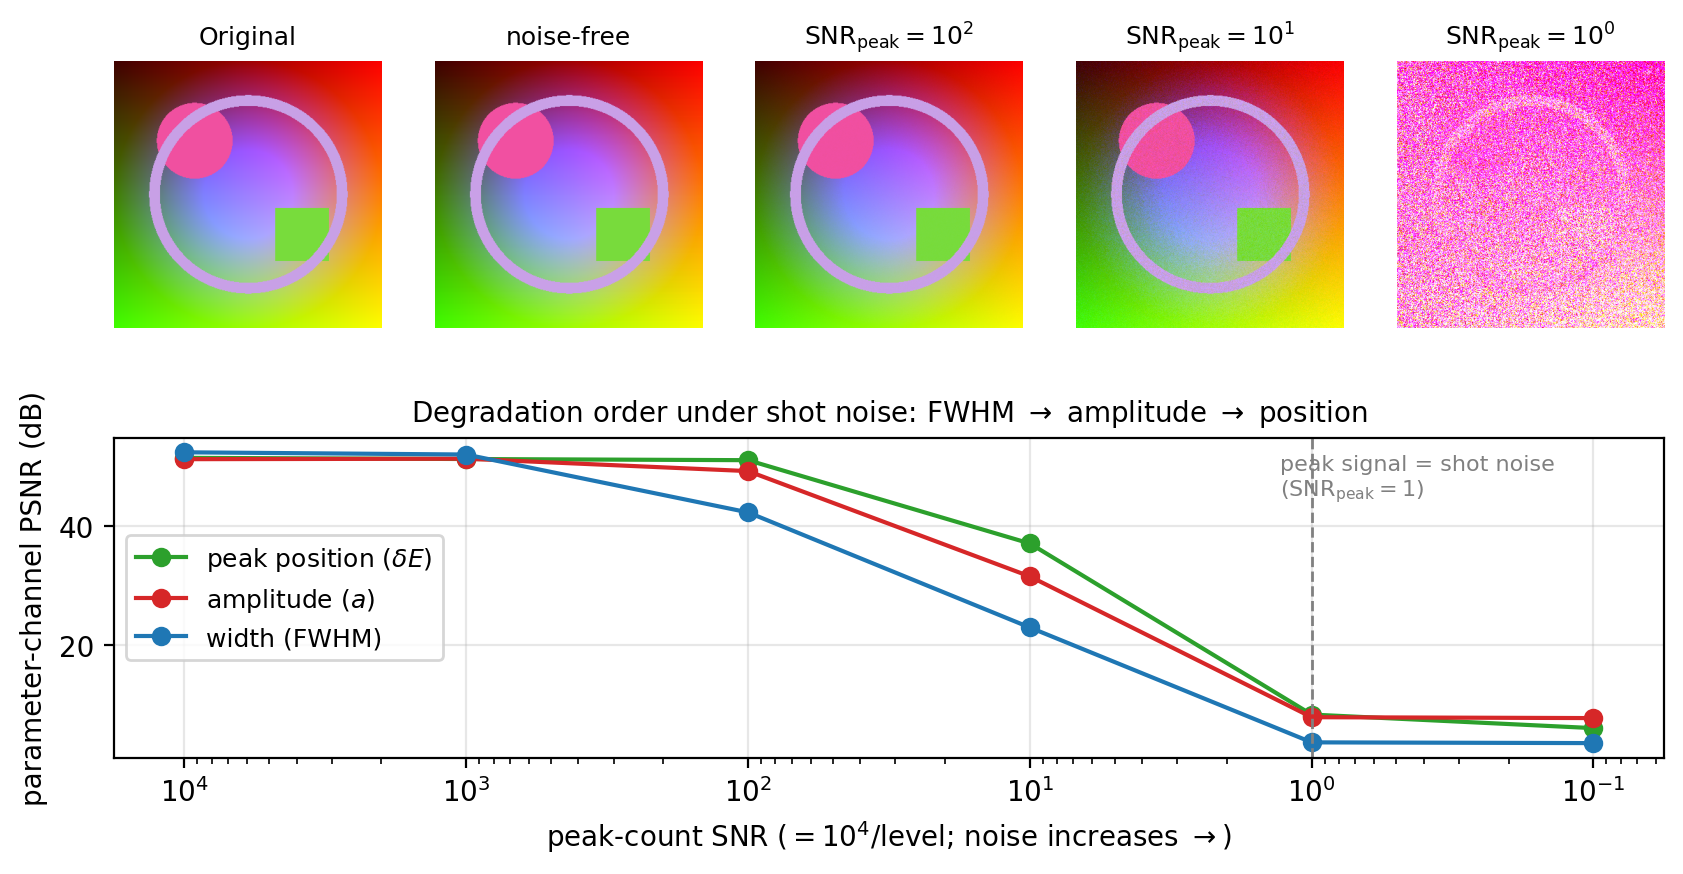
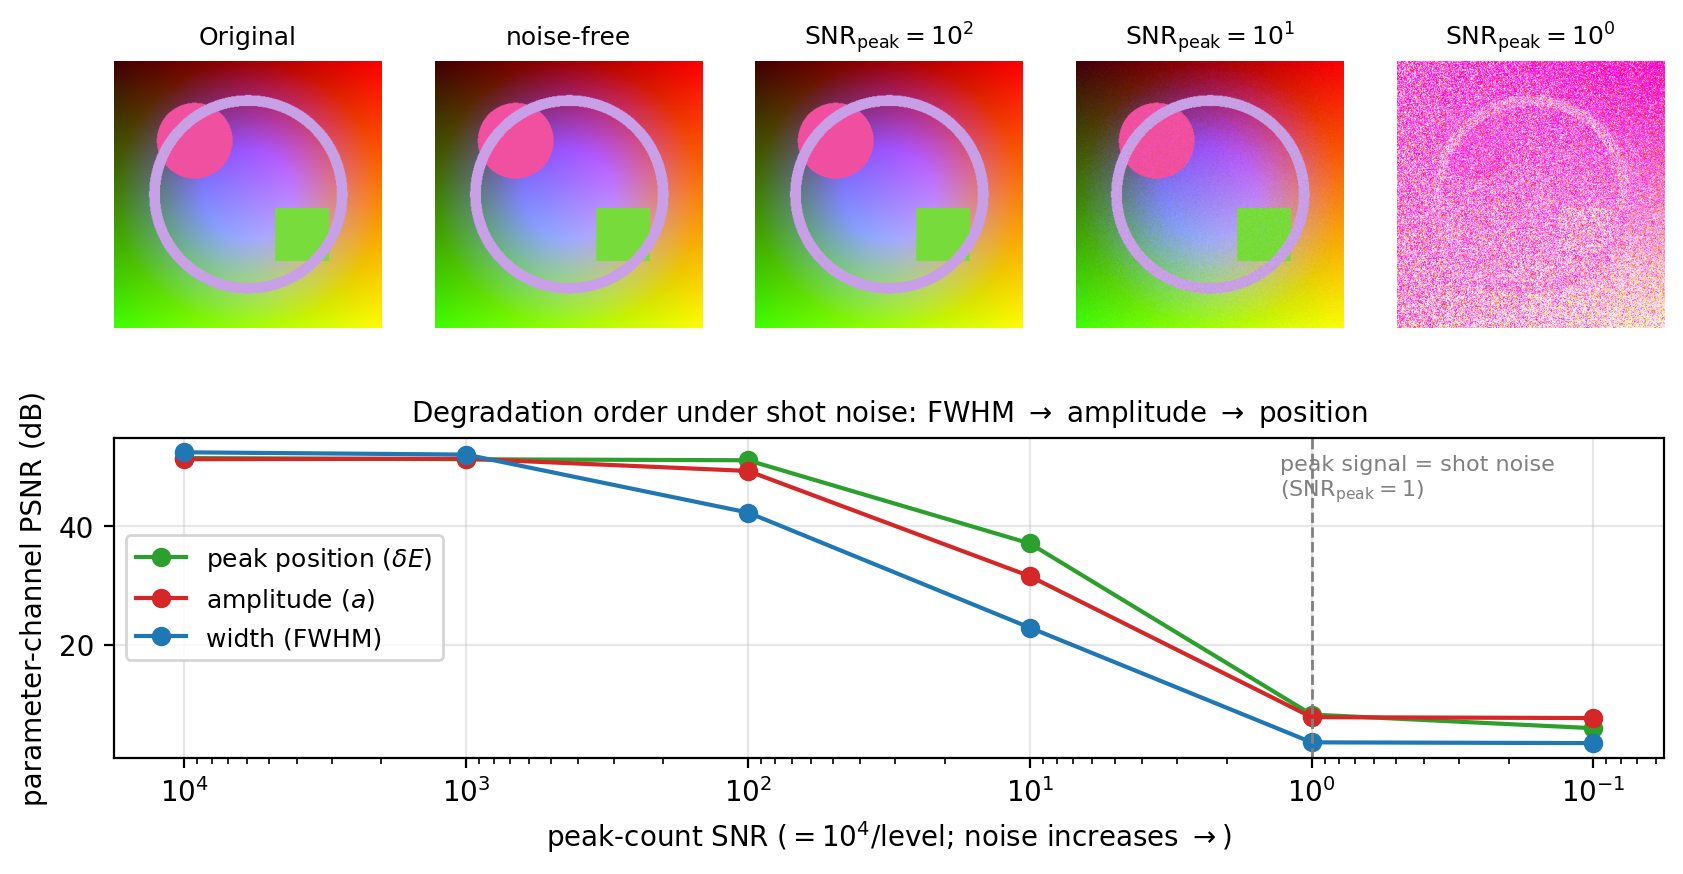
Record measurements on 743c379 (clean tree) and sync published numbers
Measurements re-run on a quiet machine (no GPU tenant, file sync
idle) on top of commit 743c379 with no tracked modifications, so the
recorded git_commit actually contains the measuring code:

- figure1_throughput.json: amplitude-only projection kernel
  478 M spec/s median (range 453-490, 9 repetitions, warm-up 2);
  git_tracked_dirty=false, command line recorded.
- solver_comparison.json: seeded input (SHA-256 recorded),
  identical bounds, common accuracy subset. dict2d_parabola
  6.5 M spec/s (MLX GPU) vs scipy_curve_fit 798 / lmfit 783 spec/s
  (bounded TRF, single-thread CPU) — factor ~8,000 at matching
  accuracy (MAE amp 0.022 vs 0.022, dE 0.013 vs 0.013 eV);
  git_tracked_dirty=false.
- figure2_gvrt_noise.png regenerated with mx.random seeded.

Paper, README, and RELATED_SOFTWARE updated to the exact recorded
figures (478M / 74% of bandwidth bound / 6.5M vs ~800). Paper body
1,395 words; citation keys 12/12 match.

Note: this commit adds only measurement artifacts and the matching
prose — the measuring code is unchanged from 743c379, preserving the
provenance chain.

diff --git a/paper/paper.md b/paper/paper.md
@@ -34,8 +34,8 @@ parabolic interpolation, and a multipeak alternating-projection
 routine — that trade precision for throughput along a single API.
 The fastest path, an **amplitude-only projection kernel** that
 reduces to a single `Y @ W` matmul against a precomputed weight
-matrix, sustains a measured median of **468 million spectrum-vector
-evaluations per second** (range 416–477 over nine repetitions) on an
+matrix, sustains a measured median of **478 million spectrum-vector
+evaluations per second** (range 453–490 over nine repetitions) on an
 Apple M3 Max with the MLX backend; the committed measurement record
 under `paper/figures/results/` pins the environment, problem size,
 and every individual timing. The Giga Voigt Round Trip (GVRT)
@@ -62,7 +62,7 @@ open-source route — `lmfit` [@lmfit] or `scipy.optimize.curve_fit`
 a Python-loop "one spectrum at a time" workload. On the benchmark
 problem shipped with this package (single Voigt peak, 151 channels,
 free amplitude, position, and width at peak-count SNR 10, bounded
-trust-region reflective), both sustain a measured **~820 spectra per
+trust-region reflective), both sustain a measured **~800 spectra per
 second** in their normal single-thread loop on an Apple M3 Max
 (committed record in
 `paper/figures/results/solver_comparison.json`).
@@ -71,7 +71,7 @@ Modern instrumentation produces datasets that defeat this model. A
 single experiment can now generate hundreds of millions of spectra:
 4K or 8K hyperspectral imaging, ARXPS depth profiling at sixteen
 emission angles × multiple elements × megapixel maps, or GVRT-class
-validation batches in the $10^9$ range. At 820 spectra/s, a single
+validation batches in the $10^9$ range. At 800 spectra/s, a single
 33-megapixel map is a twelve-hour job; the same fit recast
 batch-first completes in seconds. `voigtfit` is built around that
 recasting: amplitude recovery becomes a dense matrix product against
@@ -111,11 +111,12 @@ identical bounds, with accuracy scored on a common subset fitted by
 every solver. It is a workflow-versus-workflow comparison on one
 machine — the per-spectrum tools run their normal single-thread CPU
 loop (bounded trust-region reflective) while the batch solver uses
-the GPU. The recorded result is: `scipy.optimize.curve_fit` and
-`lmfit` at roughly **8×10² spectra/s** versus the voigtfit
-`dict2d_parabola` solver at several **million spectra/s** — three to
-four orders of magnitude — at matching accuracy (exact figures,
-per-parameter errors, and environment in the committed
+the GPU. The recorded result is: `scipy.optimize.curve_fit` at 798 and
+`lmfit` at 783 spectra/s versus the voigtfit `dict2d_parabola`
+solver at **6.5 million spectra/s** — a factor of about 8,000 — at
+matching accuracy on the common subset: mean absolute amplitude
+error 0.022 vs. 0.022, position error 0.013 vs. 0.013 eV (full
+per-parameter figures and environment in the committed
 `solver_comparison.json`). The amplitude-only projection kernel is
 reported separately because it solves a smaller problem (no
 position/width recovery). Multipeak
@@ -160,8 +161,8 @@ guarantee.
 
 \autoref{fig:bottleneck} places the measured kernel throughput
 against the hardware bounds of the test machine. The amplitude-only
-projection kernel sustains a median 468 M spectra/s — 73% of the
-645 M spectra/s memory-bandwidth bound and a factor of 30 below the
+projection kernel sustains a median 478 M spectra/s — 74% of the
+645 M spectra/s memory-bandwidth bound and a factor of 33 below the
 compute bound — confirming that the kernel is memory-bound. The
 end-to-end bar is a *projection* from the HDF5/SSD efficiency bound
 (about 9 M spectra/s); since that projected ceiling sits a factor of

diff --git a/README.md b/README.md
@@ -7,7 +7,7 @@
 > High-throughput Voigt-fitting for X-ray Photoelectron Spectroscopy (XPS).
 > The bundled engine [`toyomacro.voigtfit`](src/toyomacro/voigtfit/)
 > runs its **amplitude-only projection kernel** at a measured median
-> of **468 M spectrum-vectors per second** (range 416–477 over nine
+> of **478 M spectrum-vectors per second** (range 453–490 over nine
 > repetitions; full provenance record committed under
 > [`paper/figures/results/`](paper/figures/results/)) on an Apple
 > M3 Max with MLX, and previously completed the full GVRT 8K UHD
@@ -55,7 +55,7 @@ amplitudes (and δE / δσ, where applicable) for.
 
 | Solver | Output | Throughput |
 |---|---|---:|
-| **Amplitude-only projection** (`Y @ W` matmul kernel) | amplitude only, no shift/width recovery | **468 M spec/s** median, 416–477 range (memory-bandwidth bound; committed record) |
+| **Amplitude-only projection** (`Y @ W` matmul kernel) | amplitude only, no shift/width recovery | **478 M spec/s** median, 453–490 range (memory-bandwidth bound; committed record) |
 | 4-step Taylor residual projection | amp + δE + δσ | ~1.5 M spec/s |
 | `parabola` (Dict2D + parabolic refine) | amp + δE + δσ, no Jacobian | ~5 M spec/s |
 | `gamma_calibrated` (Dict3D → Dict2D γ-cal, warm cache) | amp + δE + δσ + γ correction | ~2 M spec/s |
@@ -80,12 +80,12 @@ Committed record (exact figures, input hash, environment):
 
 | Solver | Throughput | Notes |
 |---|---:|---|
-| voigtfit `dict2d_parabola` | ~5-6 M spec/s | MLX GPU batch |
-| `scipy.optimize.curve_fit` | ~8×10² spec/s | bounded TRF, single-thread CPU |
-| `lmfit` | ~8×10² spec/s | bounded, single-thread CPU |
+| voigtfit `dict2d_parabola` | **6.5 M spec/s** | MLX GPU batch |
+| `scipy.optimize.curve_fit` | 798 spec/s | bounded TRF, single-thread CPU |
+| `lmfit` | 783 spec/s | bounded, single-thread CPU |
 
-Matching accuracy on the common subset, three to four orders of
-magnitude in throughput — that ratio, not the kernel headline, is
+Matching accuracy on the common subset (MAE amplitude 0.022 vs
+0.022), a factor of about 8,000 in throughput — that ratio, not the kernel headline, is
 the relevant comparison with the conventional workflow.
 
 ### End-to-end image roundtrip
